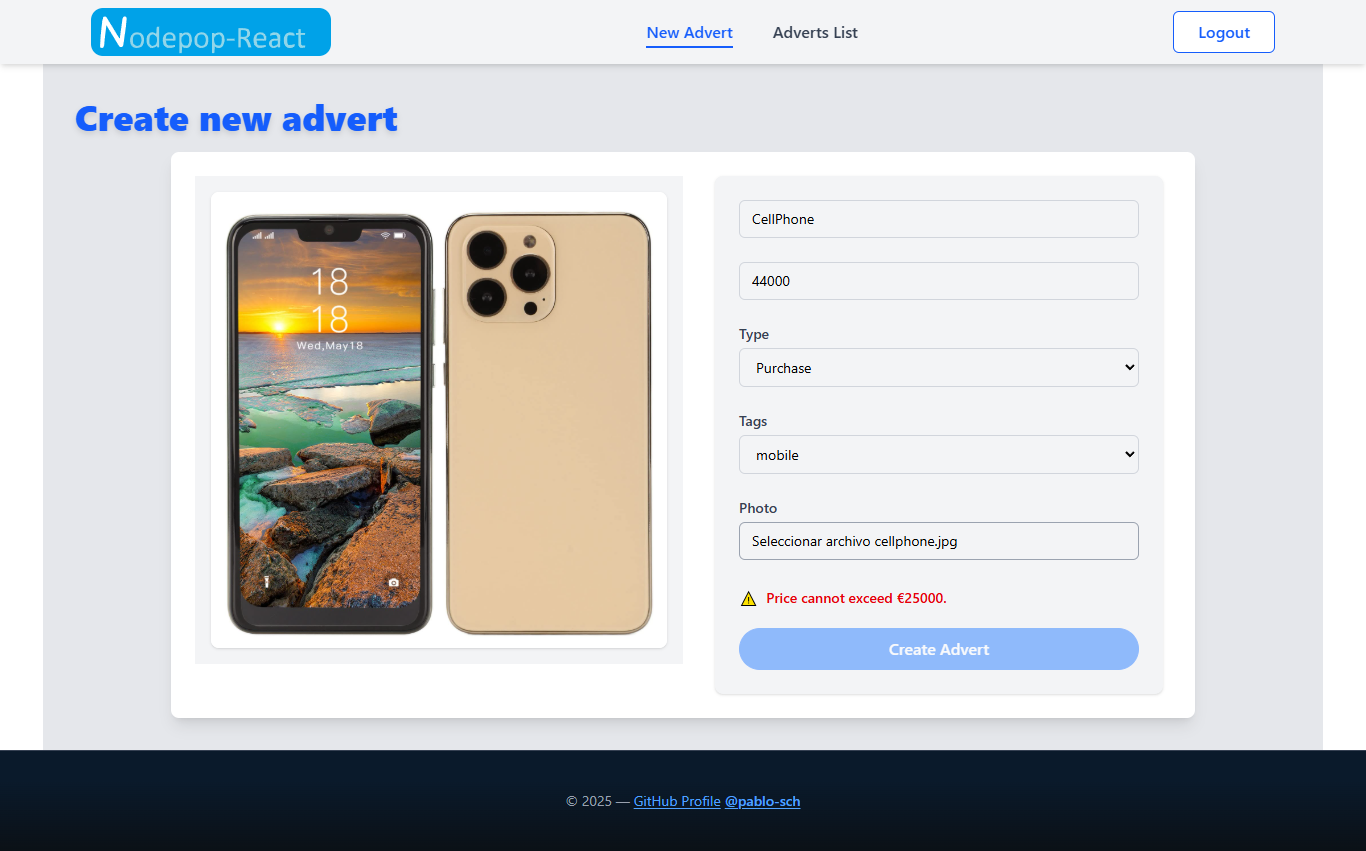
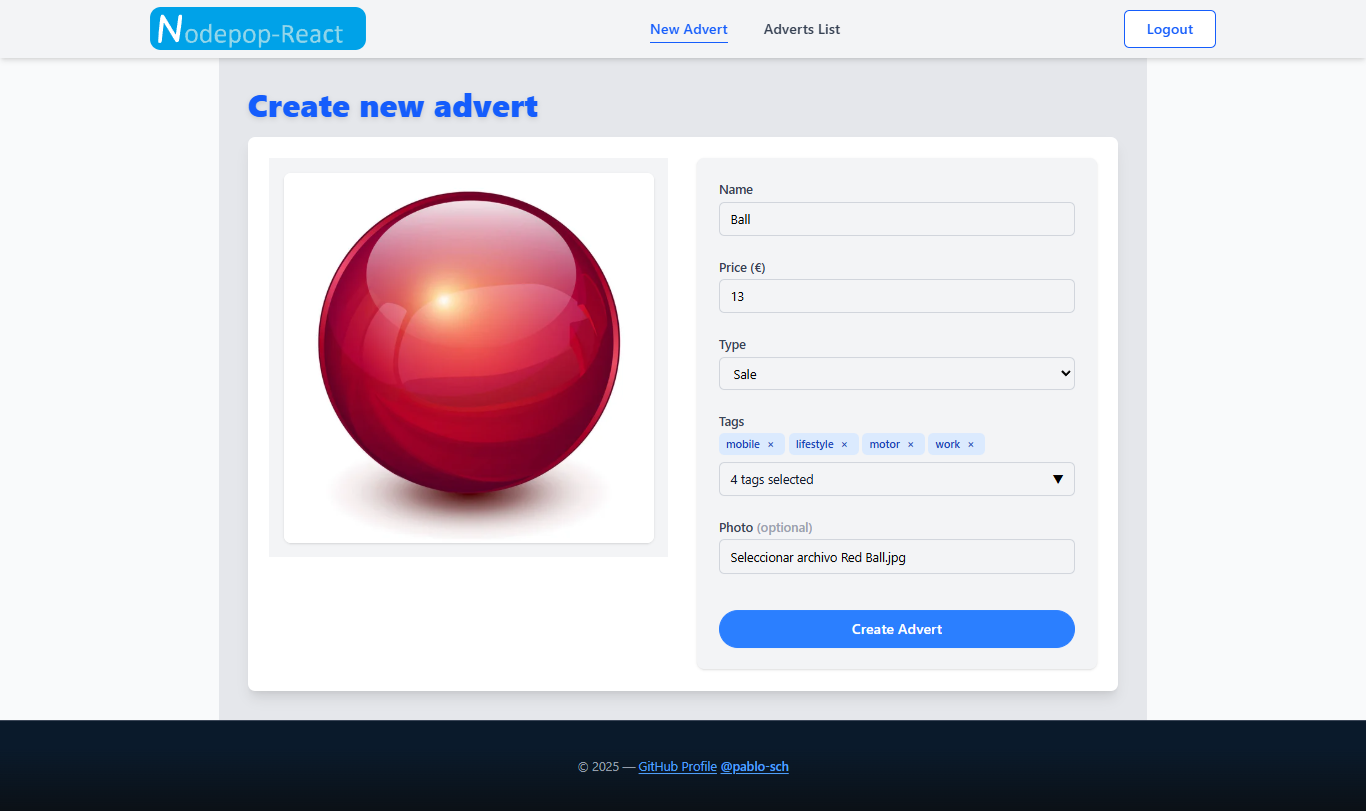
Minor changes to preview images and the Readme file, and mistake correction in new-advert-page.tsx, which contained code from adverts-page.tsx.

diff --git a/src/pages/advert/new-advert-page.tsx b/src/pages/advert/new-advert-page.tsx
@@ -1,137 +1,247 @@
 //DEPENDENCIES
-import { useState, useEffect } from "react";
-import { Link } from "react-router-dom";
+import { useState, useRef, useEffect, useCallback, type FormEvent } from "react";
 
 //REACT
-import AdvertItem from "./advert-item";
-import Form from "../../components/ui/form";
-import Dropdown from "../../components/ui/drop-down";
-import FormField from "../../components/ui/form-field";
 import Button from "../../components/ui/button";
 import Page from "../../components/layout/page";
+import FormField from "../../components/ui/form-field";
+import Form from "../../components/ui/form";
+import Dropdown from "../../components/ui/drop-down";
+import ErrorMessage from "../../components/ui/error-message-props";
 
 //REDUX
-import { advertsLoaded, tagsLoaded } from "../../store/actions";
 import { useAppDispatch, useAppSelector } from "../../store";
-import { getTags } from "../../store/selectors";
+import { advertsCreate, tagsLoaded } from "../../store/actions";
+import { getTags, getUi } from "../../store/selectors";
+import { useUiResetError } from "../../store/hooks";
 
-// ................................................
-const EmptyList = () => (
-  <div className="flex flex-col items-center justify-center text-center bg-gray-100 rounded-lg p-8 mt-8 shadow-md">
-    <img src="/empty-box.webp" alt="No adverts" className="w-24 h-24 mb-4 opacity-70" />
-    <h2 className="text-xl font-semibold text-gray-700 mb-2">No adverts found</h2>
-    <p className="text-gray-500 mb-6">It looks like there are no adverts matching your filters. Be the first to create one!</p>
-    <Link to="/adverts/new">
-      <Button $variant="secondary">Create New Advert</Button>
-    </Link>
-  </div>
-);
-
-// =======================================================================================================================================================
-function AdvertsPage() {
+//=======================================================================================================
+function NewAdvertPage() {
   const dispatch = useAppDispatch();
+  const { error, pending: isFetching } = useAppSelector(getUi);
   const tags = useAppSelector(getTags);
-  const adverts = useAppSelector((state) => state.adverts.data || []);
+  const uiResetErrorAction = useUiResetError();
 
-  const [filters, setFilters] = useState({
-    name: "",
-    price: "",
-    sale: "all",
-    tag: "all",
+  const nameRef = useRef<HTMLInputElement>(null);
+  const priceRef = useRef<HTMLInputElement>(null);
+  const photoRef = useRef<HTMLInputElement>(null);
+
+  const [formData, setFormData] = useState({
+    selectedTags: [] as string[],
+    sale: "", // Sin selección inicial
+    photoPreview: null as string | null,
   });
 
-  const tagOptions = tags.map((tag) => ({ value: tag, label: tag }));
+  const [errors, setErrors] = useState({ name: "", price: "", tags: "" });
+  const [touched, setTouched] = useState({ name: false, price: false, tags: false });
 
-  const saleOptions = [
-    { value: "true", label: "Sale" },
-    { value: "false", label: "Purchase" },
-  ];
+  const PRICE_MAX = 25000;
+
+  // Ya no necesitas incluir "Select a tag" porque el dropdown lo maneja internamente
+  const tagOptions = tags.map((tag: string) => ({ value: tag, label: tag }));
 
   //-------------------------------------------------------------------------
   useEffect(() => {
-    dispatch(advertsLoaded());
+    nameRef.current?.focus();
     if (tags.length === 0) dispatch(tagsLoaded());
-  }, [dispatch, tags]);
+  }, [tags, dispatch]);
 
   //-------------------------------------------------------------------------
-  const filteredAdverts = adverts.filter((ad) => {
-    const { name, price, sale, tag } = filters;
-
-    return (
-      ad.name.toLowerCase().includes(name.toLowerCase()) &&
-      (price === "" || ad.price <= Number(price)) &&
-      (sale === "all" || ad.sale === (sale === "true")) &&
-      (tag === "all" || ad.tags.includes(tag))
-    );
-  });
+  useEffect(
+    () => () => {
+      if (formData.photoPreview) URL.revokeObjectURL(formData.photoPreview);
+    },
+    [formData.photoPreview]
+  );
 
   //-------------------------------------------------------------------------
-  const updateFilter = (key: keyof typeof filters, value: string) => {
-    setFilters((prev) => ({ ...prev, [key]: value }));
+  const validateForm = useCallback(() => {
+    const name = nameRef.current?.value.trim() ?? "";
+    const price = priceRef.current?.value ?? "";
+    const { selectedTags } = formData;
+
+    const newErrors: typeof errors = { name: "", price: "", tags: "" };
+
+    if (!name && !nameRef.current?.dataset.optional) {
+      newErrors.name = "Name is required";
+    }
+
+    if (!price && !priceRef.current?.dataset.optional) {
+      newErrors.price = "Price is required";
+    }
+
+    if (selectedTags.length === 0) {
+      newErrors.tags = "Please select at least one tag";
+    }
+
+    setErrors(newErrors);
+  }, [formData]);
+
+  //-------------------------------------------------------------------------
+  const canSubmit = (() => {
+    const name = nameRef.current?.value.trim() ?? "";
+    const price = Number(priceRef.current?.value) || 0;
+    const { sale, selectedTags } = formData;
+    const hasNoErrors = !Object.values(errors).some((error) => error);
+    const hasValidData = name && price > 0 && price <= PRICE_MAX && selectedTags.length > 0 && sale;
+
+    return hasNoErrors && hasValidData && !isFetching;
+  })();
+
+  //-------------------------------------------------------------------------
+  useEffect(() => {
+    validateForm();
+  }, [validateForm]);
+
+  //-------------------------------------------------------------------------
+  const touchField = useCallback((field: keyof typeof touched) => {
+    setTouched((prev) => ({ ...prev, [field]: true }));
+  }, []);
+
+  //-------------------------------------------------------------------------
+  const handlePhotoChange = useCallback(() => {
+    const file = photoRef.current?.files?.[0];
+    if (formData.photoPreview) URL.revokeObjectURL(formData.photoPreview);
+    setFormData((prev) => ({ ...prev, photoPreview: file ? URL.createObjectURL(file) : null }));
+  }, [formData.photoPreview]);
+
+  //-------------------------------------------------------------------------
+  const handleTagChange = useCallback(
+    (values: string[]) => {
+      touchField("tags");
+      setFormData((prev) => ({ ...prev, selectedTags: values }));
+    },
+    [touchField]
+  );
+
+  //-------------------------------------------------------------------------
+  const resetForm = useCallback(() => {
+    [nameRef, priceRef, photoRef].forEach((ref) => {
+      if (ref.current) ref.current.value = "";
+    });
+
+    if (formData.photoPreview) URL.revokeObjectURL(formData.photoPreview);
+    setFormData({ selectedTags: [], sale: "", photoPreview: null });
+    setErrors({ name: "", price: "", tags: "" });
+    setTouched({ name: false, price: false, tags: false });
+  }, [formData.photoPreview]);
+
+  //-------------------------------------------------------------------------
+  const handleSubmit = async (event: FormEvent<HTMLFormElement>) => {
+    event.preventDefault();
+
+    setTouched({ name: true, price: true, tags: true });
+
+    validateForm();
+
+    if (!canSubmit || isFetching) return;
+
+    const name = nameRef.current?.value.trim() ?? "";
+    const price = Number(priceRef.current?.value) || 0;
+    const { selectedTags, sale } = formData;
+    const photoFile = photoRef.current?.files?.[0];
+
+    const submitData = new FormData();
+    submitData.append("name", name);
+    submitData.append("price", price.toString());
+    submitData.append("sale", sale);
+    submitData.append("tags", selectedTags.join(","));
+    if (photoFile) submitData.append("photo", photoFile);
+
+    try {
+      await dispatch(advertsCreate(submitData));
+      resetForm();
+    } catch (err) {
+      console.error("Error creating advert:", err);
+    }
   };
 
   return (
-    <Page title="Available Adverts">
-      <div className="adverts-page">
-        <div className="max-w-screen-xl mx-auto space-y-8">
-          <Form variant="search">
-            <div className="flex flex-wrap gap-4">
-              <FormField
-                id="name"
-                name="name"
-                type="text"
-                placeholder="Name"
-                value={filters.name}
-                onChange={(e) => updateFilter("name", e.target.value)}
-              />
+    <Page title="Create new advert">
+      <div className="new-advert">
+        <div className="max-w-5xl mx-auto bg-white shadow-lg rounded-lg overflow-hidden p-6">
+          <Form onSubmit={handleSubmit} layout="withPreview" previewSrc={formData.photoPreview}>
+            <FormField
+              id="name"
+              name="name"
+              label="Name"
+              placeholder="Enter product name"
+              type="text"
+              maxLength={120}
+              ref={nameRef}
+              onInput={validateForm}
+              onBlur={() => touchField("name")}
+              error={errors.name}
+              touched={touched.name}
+            />
 
-              <FormField
-                id="price"
-                name="price"
-                type="number"
-                placeholder="Max price"
-                value={filters.price}
-                onChange={(e) => updateFilter("price", e.target.value)}
-              />
+            <FormField
+              id="price"
+              name="price"
+              label="Price (€)"
+              placeholder="Enter price"
+              type="number"
+              maxValue={PRICE_MAX}
+              ref={priceRef}
+              onInput={validateForm}
+              onBlur={() => touchField("price")}
+              error={errors.price}
+              touched={touched.price}
+            />
 
-              <Dropdown
-                name="sale"
-                value={filters.sale}
-                onChange={(value) => updateFilter("sale", value)}
-                options={saleOptions}
-                placeholder="All types"
-                className="flex-1"
-                isOptional={true}
-              />
+            <Dropdown
+              name="sale"
+              label="Type"
+              value={formData.sale}
+              options={[
+                { value: "true", label: "Sale" },
+                { value: "false", label: "Purchase" },
+              ]}
+              placeholder="Select type"
+              onChange={(val) => setFormData((prev) => ({ ...prev, sale: val as string }))}
+            />
 
-              <Dropdown
-                name="tag"
-                value={filters.tag}
-                onChange={(value) => updateFilter("tag", value)}
-                options={tagOptions}
-                placeholder="All tags"
-                isOptional={true}
+            <Dropdown
+              name="tags"
+              label="Tags"
+              value={formData.selectedTags}
+              options={tagOptions}
+              onChange={handleTagChange}
+              multiple
+              placeholder="Select tags"
+              error={errors.tags}
+              touched={touched.tags}
+            />
+
+            <div>
+              <label htmlFor="photo" className="block text-sm font-medium text-gray-700 mb-1">
+                Photo <span className="text-gray-400 text-sm">(optional)</span>
+              </label>
+              <input
+                id="photo"
+                type="file"
+                name="photo"
+                accept="image/*"
+                ref={photoRef}
+                onChange={handlePhotoChange}
+                className="w-full px-3 py-2 rounded-md bg-gray-100 text-sm border border-gray-300 
+                 focus:outline-none focus:ring-2 focus:ring-blue-500 
+                 hover:cursor-pointer hover:border-gray-400 transition-colors"
               />
             </div>
-          </Form>
 
-          {filteredAdverts.length ? (
-            <ul className="grid sm:grid-cols-2 lg:grid-cols-3 gap-6">
-              {filteredAdverts.map((ad) => (
-                <li key={ad.id}>
-                  <Link to={`/adverts/${ad.id}`}>
-                    <AdvertItem advert={ad} />
-                  </Link>
-                </li>
-              ))}
-            </ul>
-          ) : (
-            <EmptyList />
-          )}
+            {error && <ErrorMessage message={error.message} onClick={uiResetErrorAction} />}
+
+            <div className="pt-4">
+              <Button className="w-full" type="submit" disabled={!canSubmit}>
+                {isFetching ? "Creating Advert..." : "Create Advert"}
+              </Button>
+            </div>
+          </Form>
         </div>
       </div>
     </Page>
   );
 }
 
-export default AdvertsPage;
+export default NewAdvertPage;

diff --git a/docs/README.es.md b/docs/README.es.md
@@ -127,8 +127,11 @@ npm run lint
 # Previsualiza la compilación de producción localmente.
 npm run preview
 
-# Corre Prettier para que el código sea formateado.
-npm run format
+# Ejecuta pruebas, crear y actualiza snapshots.
+npm run test
+
+# Ejecuta pruebas unitarias con informe de cobertura (crea la carpeta coverage).
+npm run test:coverage
 ```
 
 <!-- ------------------------------------------------------------------------------------------- -->

diff --git a/docs/README.de.md b/docs/README.de.md
@@ -117,8 +117,11 @@ npm run lint
 # Zeige den Produktions-Build lokal an.
 npm run preview
 
-# Führe Prettier aus, um den Code zu formatieren.
-npm run format
+# Tests ausführen, Snapshots erstellen und aktualisieren.
+npm run test
+
+# Unit-Tests mit Abdeckungsbericht ausführen (erstellt den Ordner "coverage").
+npm run test:coverage
 ```
 
 ## Projektressourcen

diff --git a/docs/README.md b/docs/README.md
@@ -117,8 +117,11 @@ npm run lint
 # Preview the production build locally.
 npm run preview
 
-# Run Prettier to format the code.
-npm run format
+# Run tests, create and update snapshots.
+npm run test
+
+# Run unit tests with coverage report (creates the coverage folder).
+npm run test:coverage
 ```
 
 ## Project Resources
